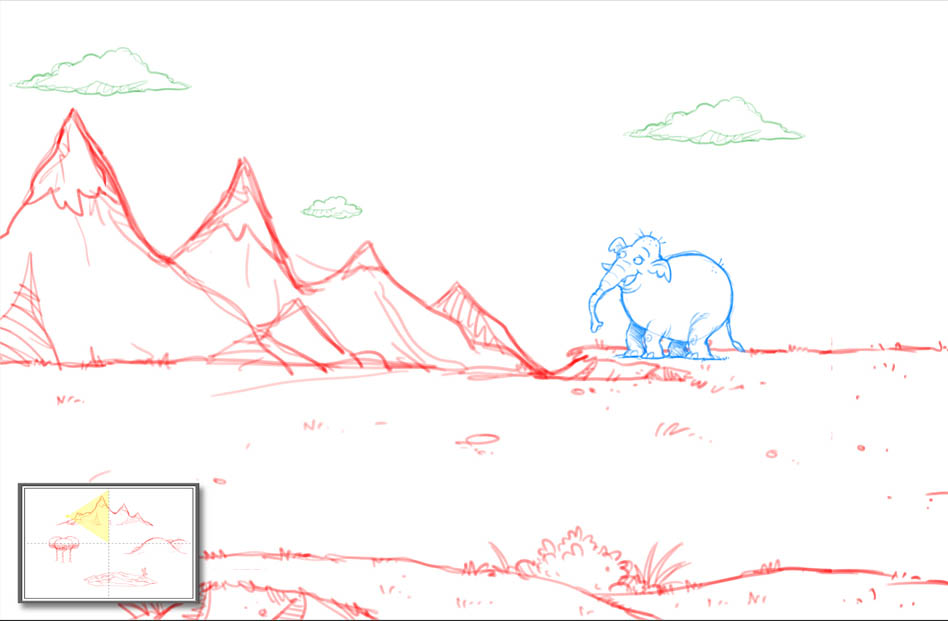
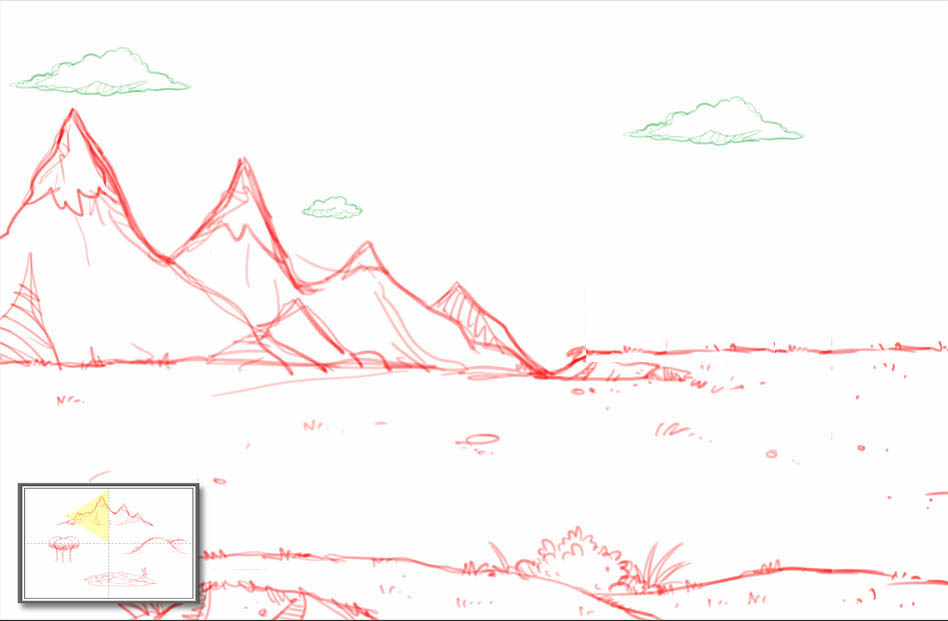
TPT-45 Elephant doesn't appear in Exploration assets, but will appear in the final Search, where the level ends in completion

Changed region(s): [[0.6118, 0.3671, 0.8259, 0.5813]]

diff --git a/assets/js/exploration.js b/assets/js/exploration.js
@@ -12,6 +12,14 @@ function getPreloadExplorePanes() {
         }
     });
 
+    for ([assetName, direction] of getLevel().elephantLocations) {
+        preload.append({
+            id: `${assetName}-${direction}-elephant`,
+            src: `assets/images/${levelId}/${assetName}/${direction}-elephant.jpg`,
+            format: "createjs.Bitmap",
+        });
+    }
+
     return preload;
 }
 
@@ -49,19 +57,20 @@ function createExploreArrow(direction=TILE_DIRECTIONS[0], x=0, y=0) {
     arrow.name = direction;
 
     arrow.on('mousedown', function(ev) {
-        let assetName = this.parent.assetName,
-            slides = this.parent.slides,
-            onSlide = this.parent.onSlide,
-            explorationContainer = this.parent,
+        let explorationContainer = this.parent,
+            assetName = explorationContainer.assetName,
+            slides = explorationContainer.slides,
+            onSlide = explorationContainer.onSlide,
+            direction,
             slideIsOver = false,
-            firstView = TILE_DIRECTIONS[0],
             explorePane = explorationContainer.getChildByName('pane'),
             mapContainer = app.manager.currentState.panel.getChildByName('map'),
             tileContainer = mapContainer.getChildByName(assetName);
+            elephantLocation = app.levelInfo.elephantLocation;
 
 
-        slideIsOver = (this.name === firstView) ? (onSlide === 0)
-                                                : (onSlide === slides.length - 1);
+        slideIsOver = (this.name === 'left') ? (onSlide === 0)
+                                             : (onSlide === slides.length - 1);
 
         if (slideIsOver) {
             this.removeAllEventListeners();
@@ -83,10 +92,24 @@ function createExploreArrow(direction=TILE_DIRECTIONS[0], x=0, y=0) {
             explorePane.removeAllChildren();
             removeFogPiece(assetName, TILE_DIRECTIONS[onSlide]);
 
-            (this.name === firstView) ? this.parent.onSlide = onSlide -= 1
-                                      : this.parent.onSlide = onSlide += 1;
+            (this.name === 'left') ? this.parent.onSlide = onSlide -= 1
+                                   : this.parent.onSlide = onSlide += 1;
 
-            explorePane.addChild(slides[onSlide]);
+
+            if (elephantLocation && elephantLocation.found) {
+                app.states.search.panel.removeAllChildren();  // TODO: Congratulations of some sort, the level is over.
+                alert('Level completed');
+            }
+
+            direction = TILE_DIRECTIONS[onSlide];
+            if (elephantLocation && elephantLocation.assetName === assetName
+                    && elephantLocation.direction === direction) {
+                explorePane.addChild(app.getCache(`${assetName}-${direction}-elephant`));
+                elephantLocation.found = true;
+            }
+            else {
+                explorePane.addChild(slides[onSlide]);
+            }
 
             tileContainer.removeChild(tileContainer.getChildByName('gps'));
             let gpsCone = createGpsCone(assetName, TILE_DIRECTIONS[onSlide]);
